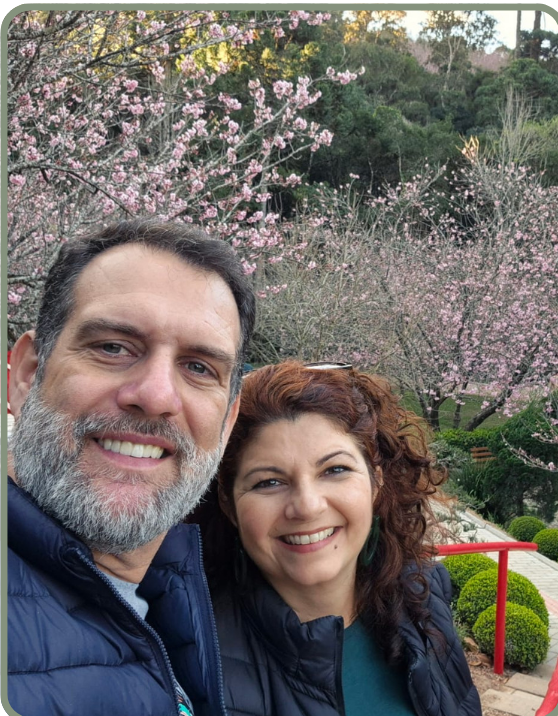
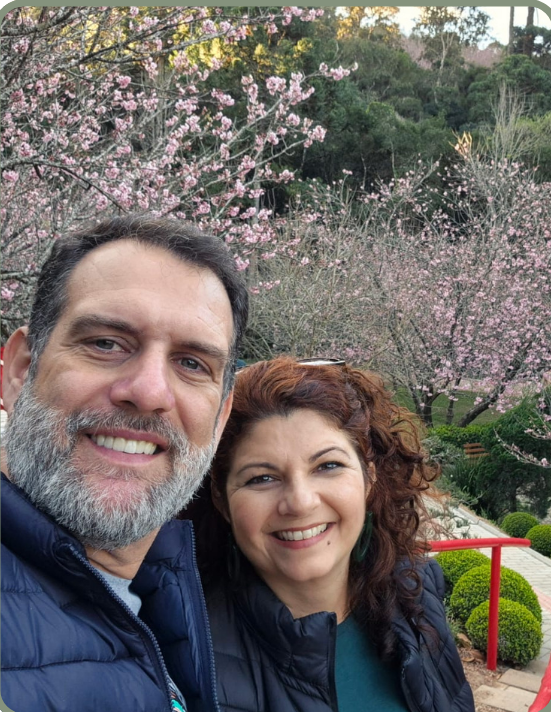
Fotos dos anfitrioes inteiras (sem corte) e sem bordas embutidas

diff --git a/sobre_a_casa.html b/sobre_a_casa.html
@@ -45,7 +45,7 @@
         <h2>Conheça os Anfitriões</h2>
         <p>Somos Angélica e Edgar, juntos há quase 30 anos. Adoramos viajar, conhecer novas culturas e sabores.
             Nossa família inclui nossos filhos humanos, Bianca e Samuel, e nossas filhas de 4 patas, Frida e Hortência.</p>
-        <div class="grid-images">
+        <div class="grid-images grid-hosts">
             <img src="avaliacoes/anfitrioes.png" alt="Angélica e Edgar, anfitriões da Casa Terras Altas">
             <img src="avaliacoes/familia.png" alt="Família completa: Angélica, Edgar, Bianca e Samuel, com Frida e Hortência">
         </div>

diff --git a/style.css b/style.css
@@ -405,3 +405,15 @@ footer a{color:#d8e6de;text-decoration:underline}
 @media (max-width:420px){
   .card-actions{flex-direction:column}
 }
+
+/* fotos dos anfitrioes: mostrar inteiras (retrato), sem cortar rostos */
+.grid-hosts{
+  grid-template-columns:repeat(auto-fit,minmax(240px,360px));
+  justify-content:center;
+  align-items:start;
+}
+
+.grid-hosts img{
+  height:auto;
+  object-fit:contain;
+}
